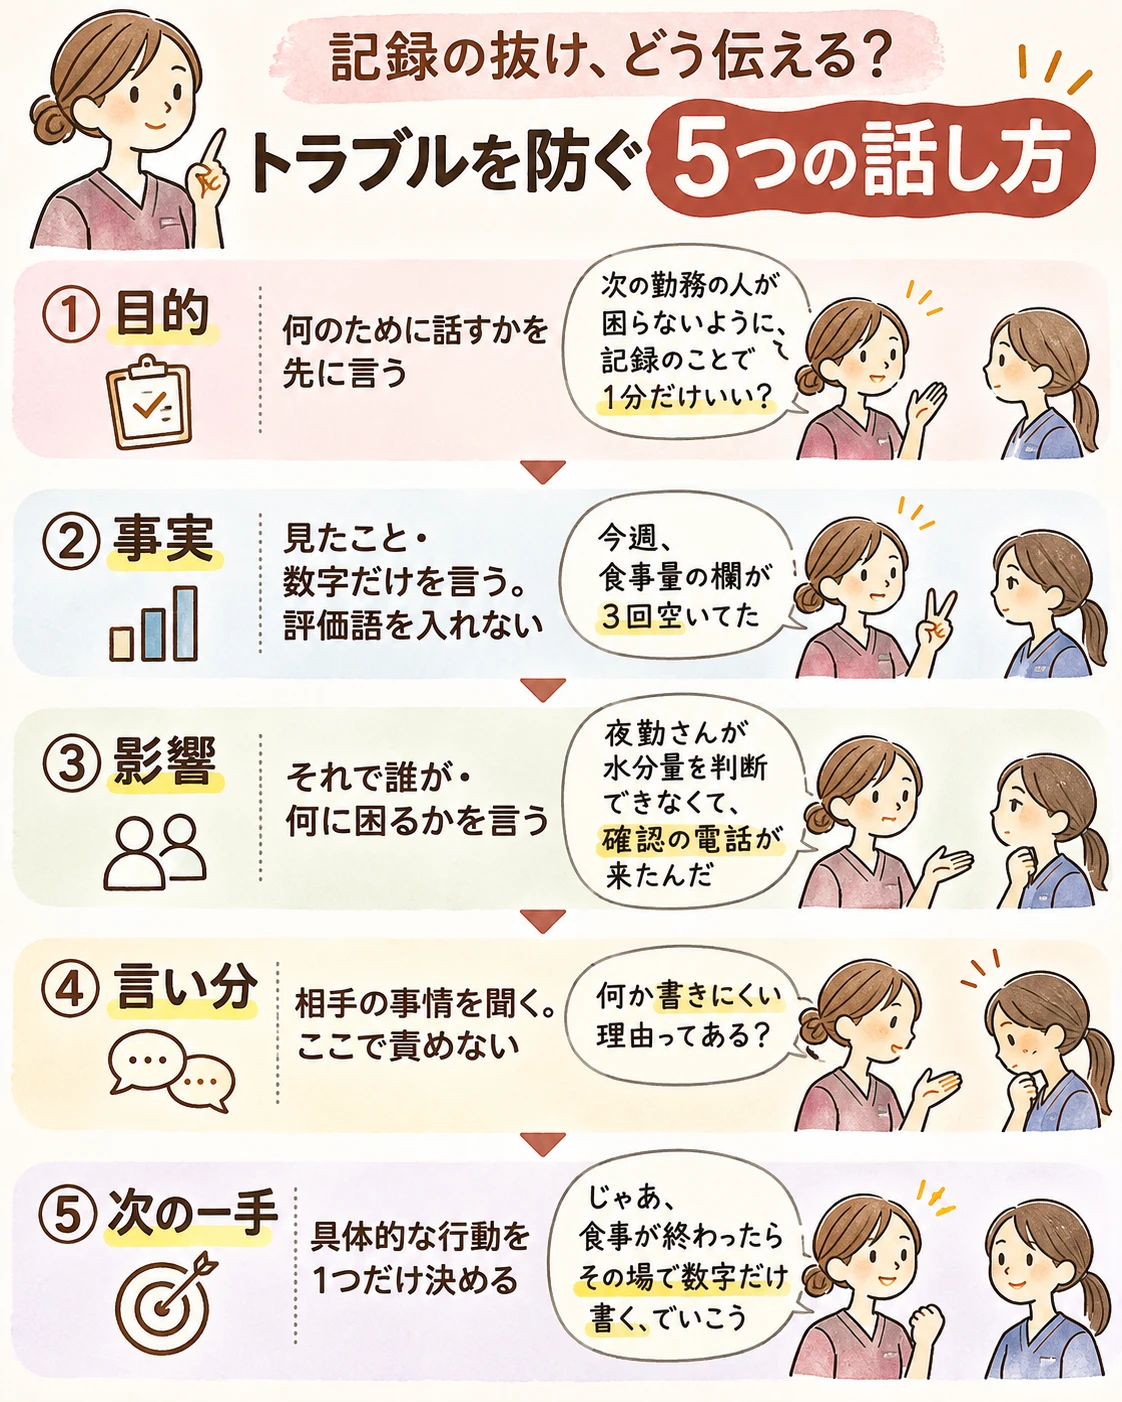
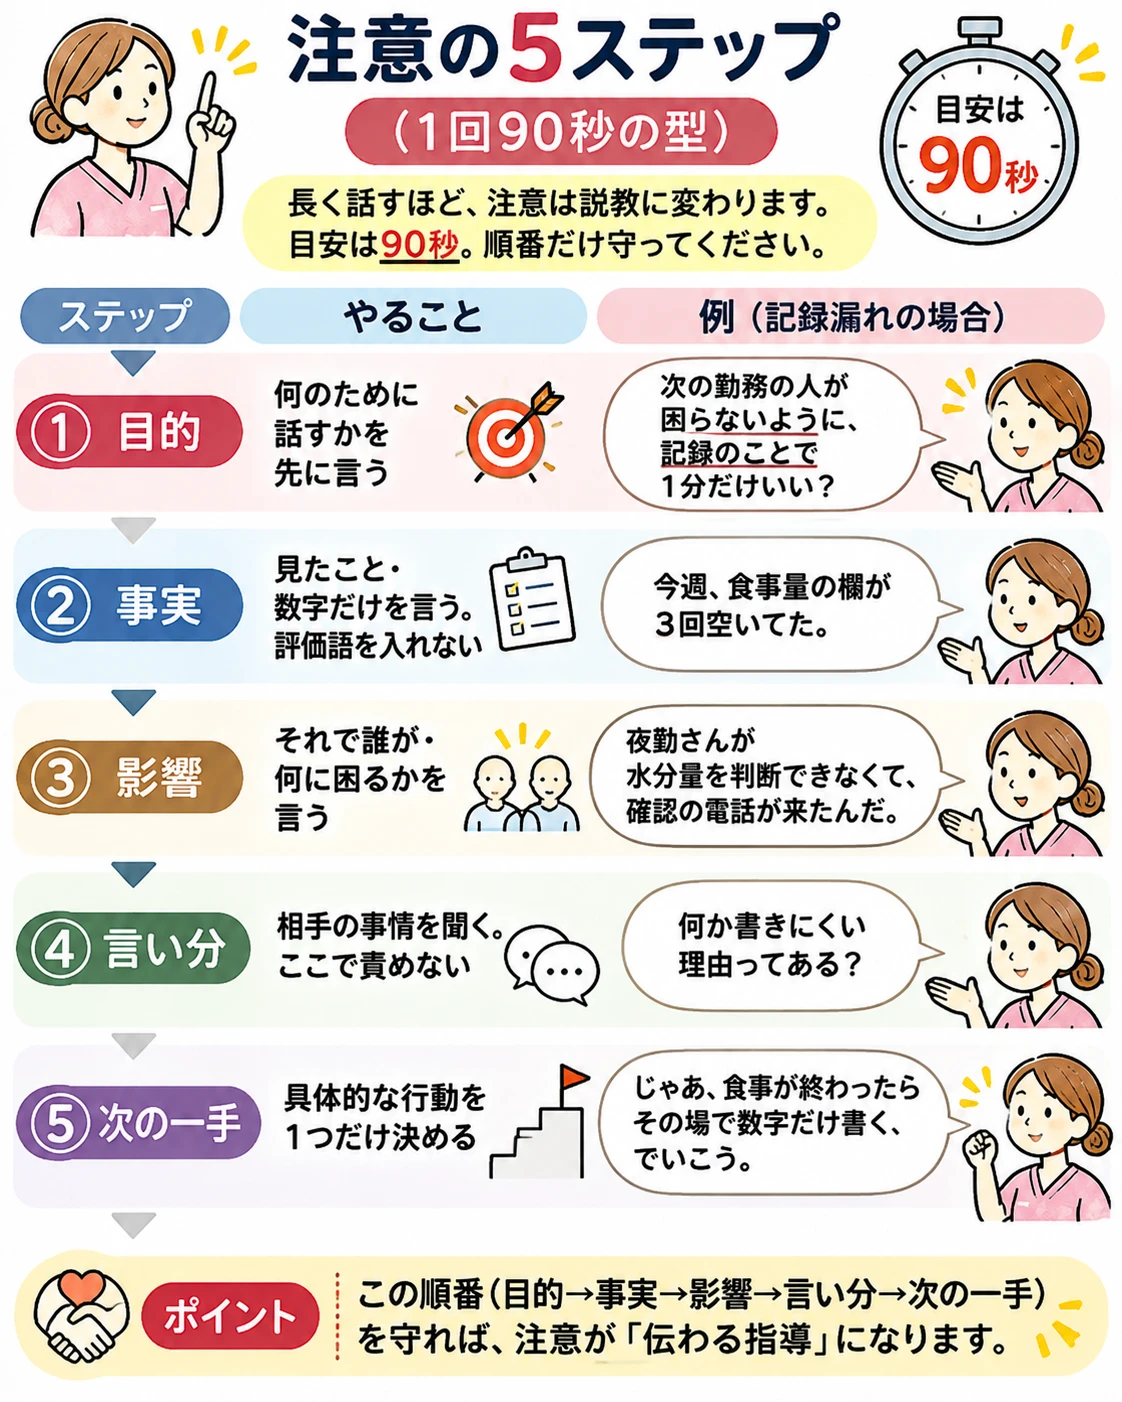
note: 5ステップ改訂版と「やさしさと、覚悟」画像を追加、修正リストを更新
Claude-Session: https://claude.ai/code/session_01MhqkquMeLZPqsa5KG1MpEb

diff --git a/content/caredesign/note/images/pawahara/_未作成画像の指示書.md b/content/caredesign/note/images/pawahara/_未作成画像の指示書.md
@@ -1,25 +1,13 @@
-# 未作成画像の指示書（既存5枚と同じテイストで作成）
+# 図解画像の状態と修正リスト
 
-共通トーン：既存5枚に合わせる。縦長、パステル背景、手描き風イラスト。
-リーダー＝ピンクのスクラブ、新人・部下＝ブルーのスクラブ。最下部に「ポイント」帯を置く。
+8枚すべて作成済み。以下の誤字を、画像編集ツールで該当文字だけ上書きして直す。
+（画像を生成し直すと、別の箇所の日本語が崩れやすいため）
 
----
-
-## 01・02は作成済み
-
-## 08-yasashisa-kakugo.webp　やさしさと、覚悟
-- タイトル：「やさしさと、覚悟」
-- 上部：天秤またはハートと手のイラスト
-  - 左「やさしさ＝相手を傷つけたくない気持ち」
-  - 右「覚悟＝それでも、相手のために言うと決めること」
-- 中段：3つの覚悟（カード3枚）
-  1. その場で、少しだけ嫌われる覚悟｜関係が壊れるのは「言ったあと放っておいたとき」
-  2. 一度で伝わらなくても、やめない覚悟｜2回で変わらなければ、やり方を一緒に変える
-  3. 自分の言い方を、自分から直しにいく覚悟｜謝ることと、内容を取り下げることは別
-- ポイント帯：「やさしさに覚悟が加わったとき、注意は『大切にしている』と伝える言葉になる」
-
----
-
-## 既存画像の修正
-- 02-iikae-20.webp：No.9「聞こえたがもしれない」→「聞こえたかもしれない」
+## 修正待ち
+- 02-iikae-20.webp（初版を採用）：No.9「聞こえたがもしれない」→「聞こえたかもしれない」
 - 03-aite-betsu.webp：年上のベテランさんの吹き出し「迷なていて」→「迷っていて」
+- 08-yasashisa-kakugo.webp：①「引き要ける」→「引き受ける」／タイトル周辺の黒い汚れを消す
+
+## 不採用
+- 言い換え20の再生成版：No.9は直ったが、「様子観察」「途中」「困る」「移乗」「目線」「コツ」
+  「業務」「順番」「減る」「慣れる」など10か所以上で文字が崩れたため、初版を採用
